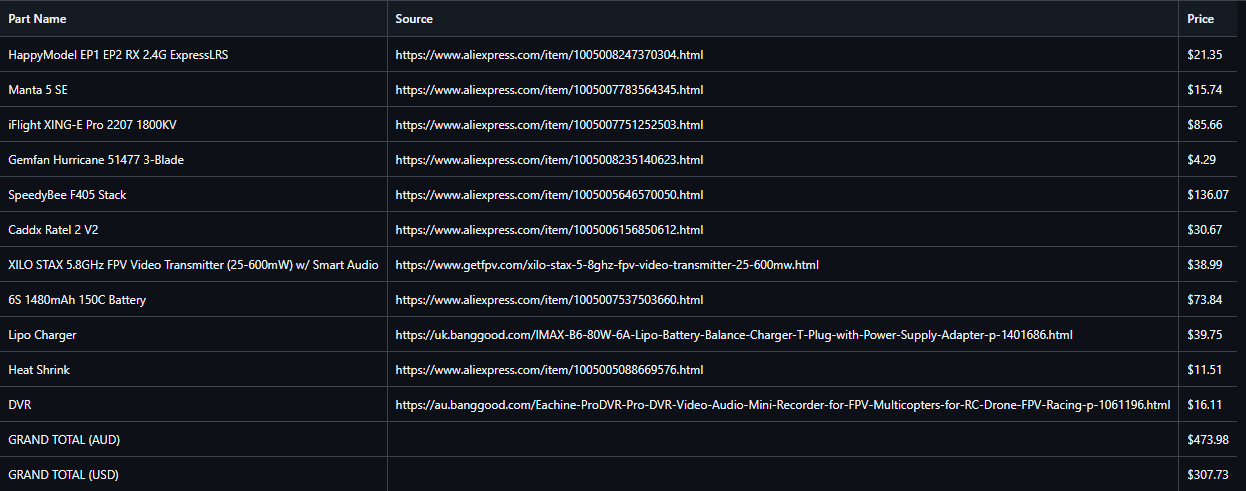
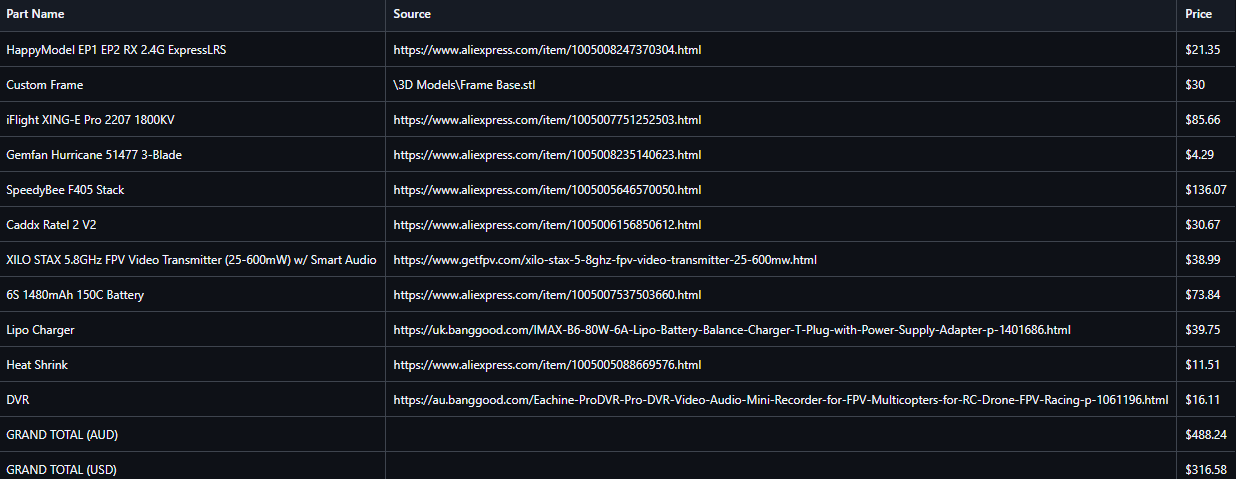
sync 2

Changed region(s): [[0.0, 0.4384, 1.0, 0.9937], [0.0, 0.0, 1.0, 0.4092], [0.3074, 0.9061, 0.3382, 0.9645]]

diff --git a/README.md b/README.md
@@ -21,7 +21,6 @@ The 3D printed parts are all under the 3D Models folder in the repository. It co
 The 3D model of the drone is available in the [3D Models](/3D%20Models/Proof%20of%20Concept/). Do not use it to print as the dimensions might not work out!
 
 # Images
-![2d Sketch](img/2d_sketch.png)
 ![3D Model Bottom](img/3d_model_bottom.png)
 ![3D Model Top](img/3d_model_top.png)
 ![3D Model Illustrated](img/3d_model_illustrated.jpg)
@@ -33,6 +32,8 @@ The 3D model of the drone is available in the [3D Models](/3D%20Models/Proof%20o
 ![GPS Mount - High](img/POC/GPS%20Mount%20High.png)
 ![M10 GPS Mount](img/POC/M10%20-%20GPS%20Mount.png)
 
+# Frame Design
+![Frame](img/frame.png)
 
 # Credits
 The image of the drone is from [MantisFPV](mantisfpv.com.au).

diff --git a/JOURNAL.md b/JOURNAL.md
@@ -103,3 +103,4 @@ The main problem, along with taking care of all of the measurements, was to addr
 Overall, while it may not look like much, I am proud of this design and am surprised by how much thought needs to be put in when designing and considering the placements of parts.
 
 **Total time spent: 7h**
+![alt text](image.png)
